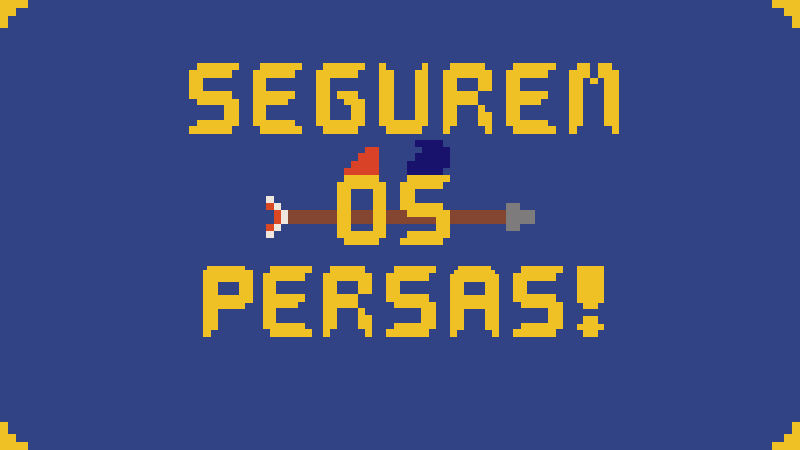
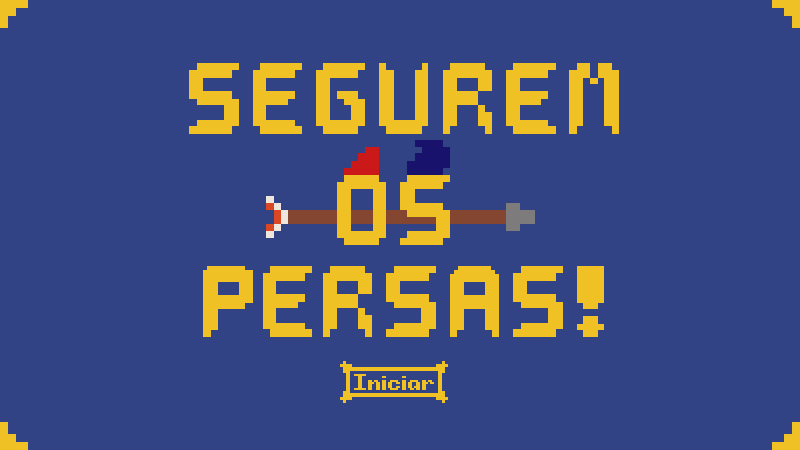
Ajustes

Changed region(s): [[0.4062, 0.8089, 0.5625, 0.9022], [0.4062, 0.3111, 0.5, 0.4044]]

diff --git a/cliente/js/cena1.js b/cliente/js/cena1.js
@@ -6,13 +6,13 @@ export default class cena1 extends Phaser.Scene {
   preload () {
     /*Carregar imagens*/
     this.load.image('menu-sala', '../assets/imagens/menu-sala.png')
-    this.load.image('vazio', '../assets/imagens/vazio.png')
+    this.load.image('salas', '../assets/imagens/salas.png')
   }
 
   /*Adicionar menu e botão*/
   create () {
     this.add.image(400, 225, 'menu-sala')
-    this.physics.add.image(400, 100, 'vazio')
+    this.add.image(400, 225, 'salas')
 
   }
 }

diff --git a/cliente/js/cena0.js b/cliente/js/cena0.js
@@ -15,7 +15,7 @@ export default class cena0 extends Phaser.Scene {
   /*Adicionar menu e botão*/
   create () {
     this.add.image(400, 225, 'menu-inicial')
-    this.physics.add.image(400, 390, 'vazio')
+    this.physics.add.image(400, 383, 'vazio')
 
       .setInteractive()
       .on('pointerover', () => {
